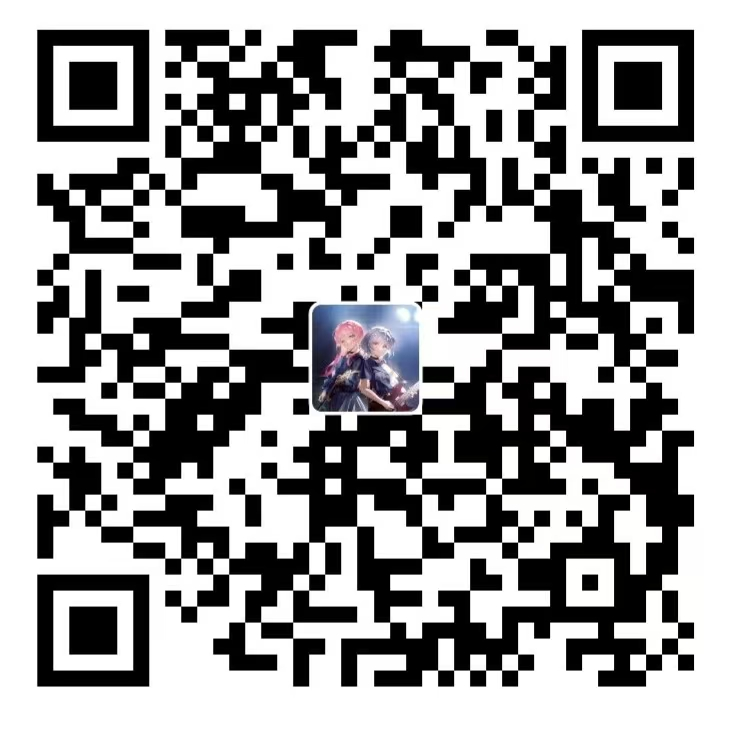
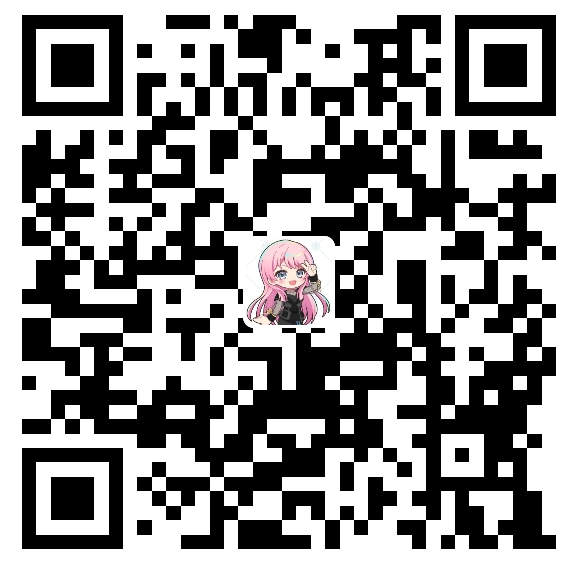
Site updated: 2026-01-20 06:44:30

diff --git a/tags/index.html b/tags/index.html
@@ -292,7 +292,7 @@
       </div>
       <header class="pattern-header ">
         <h1 class="entry-title">
-        </h1>
+        春物壁纸</h1>
       </header>
     </div>
   
@@ -323,7 +323,7 @@
           <div class="reward-main">
             <ul class="reward-row">
               <li class="alipay-code"><img src="/images/donate/AliPayQR.jpg"></li>
-              <li class="wechat-code"><img src="/images/donate/WeChanQR.jpg"></li>
+              <li class="wechat-code"><img src="undefined"></li>
             </ul>
           </div>
         </div>
@@ -663,7 +663,7 @@ $(document).ready(function() {
 </style>
 <meting-js
 
-    id="2974163305"
+    id="7536827188"
 
     server="netease"
 

diff --git a/comment/index.html b/comment/index.html
@@ -367,7 +367,7 @@ document.getElementById('fade-banner').onclick = fadeAnnouncement;
           <div class="reward-main">
             <ul class="reward-row">
               <li class="alipay-code"><img src="/images/donate/AliPayQR.jpg"></li>
-              <li class="wechat-code"><img src="/images/donate/WeChanQR.jpg"></li>
+              <li class="wechat-code"><img src="undefined"></li>
             </ul>
           </div>
         </div>
@@ -707,7 +707,7 @@ $(document).ready(function() {
 </style>
 <meting-js
 
-    id="2974163305"
+    id="7536827188"
 
     server="netease"
 

diff --git a/2022/02/02/Hexo-Theme-Sakura/index.html b/2022/02/02/Hexo-Theme-Sakura/index.html
@@ -369,7 +369,7 @@
             <div class="reward-main">
               <ul class="reward-row">
                 <li class="alipay-code"><img src="/images/donate/AliPayQR.jpg"></li>
-                <li class="wechat-code"><img src="/images/donate/WeChanQR.jpg"></li>
+                <li class="wechat-code"><img src="undefined"></li>
               </ul>
             </div>
           </div>
@@ -754,7 +754,7 @@ $(document).ready(function() {
 </style>
 <meting-js
 
-    id="2974163305"
+    id="7536827188"
 
     server="netease"
 

diff --git a/2025/03/31/McServer1/index.html b/2025/03/31/McServer1/index.html
@@ -439,7 +439,7 @@
             <div class="reward-main">
               <ul class="reward-row">
                 <li class="alipay-code"><img src="/images/donate/AliPayQR.jpg"></li>
-                <li class="wechat-code"><img src="/images/donate/WeChanQR.jpg"></li>
+                <li class="wechat-code"><img src="undefined"></li>
               </ul>
             </div>
           </div>
@@ -841,7 +841,7 @@ $(document).ready(function() {
 </style>
 <meting-js
 
-    id="2974163305"
+    id="7536827188"
 
     server="netease"
 

diff --git a/2025/03/31/mcserver2/index.html b/2025/03/31/mcserver2/index.html
@@ -393,7 +393,7 @@
             <div class="reward-main">
               <ul class="reward-row">
                 <li class="alipay-code"><img src="/images/donate/AliPayQR.jpg"></li>
-                <li class="wechat-code"><img src="/images/donate/WeChanQR.jpg"></li>
+                <li class="wechat-code"><img src="undefined"></li>
               </ul>
             </div>
           </div>
@@ -795,7 +795,7 @@ $(document).ready(function() {
 </style>
 <meting-js
 
-    id="2974163305"
+    id="7536827188"
 
     server="netease"
 

diff --git a/2025/04/01/mcserver3/index.html b/2025/04/01/mcserver3/index.html
@@ -375,7 +375,7 @@
             <div class="reward-main">
               <ul class="reward-row">
                 <li class="alipay-code"><img src="/images/donate/AliPayQR.jpg"></li>
-                <li class="wechat-code"><img src="/images/donate/WeChanQR.jpg"></li>
+                <li class="wechat-code"><img src="undefined"></li>
               </ul>
             </div>
           </div>
@@ -777,7 +777,7 @@ $(document).ready(function() {
 </style>
 <meting-js
 
-    id="2974163305"
+    id="7536827188"
 
     server="netease"
 

diff --git a/2025/04/02/mcserver4/index.html b/2025/04/02/mcserver4/index.html
@@ -345,7 +345,7 @@
             <div class="reward-main">
               <ul class="reward-row">
                 <li class="alipay-code"><img src="/images/donate/AliPayQR.jpg"></li>
-                <li class="wechat-code"><img src="/images/donate/WeChanQR.jpg"></li>
+                <li class="wechat-code"><img src="undefined"></li>
               </ul>
             </div>
           </div>
@@ -747,7 +747,7 @@ $(document).ready(function() {
 </style>
 <meting-js
 
-    id="2974163305"
+    id="7536827188"
 
     server="netease"
 

diff --git a/2025/04/09/game/index.html b/2025/04/09/game/index.html
@@ -352,7 +352,7 @@
             <div class="reward-main">
               <ul class="reward-row">
                 <li class="alipay-code"><img src="/images/donate/AliPayQR.jpg"></li>
-                <li class="wechat-code"><img src="/images/donate/WeChanQR.jpg"></li>
+                <li class="wechat-code"><img src="undefined"></li>
               </ul>
             </div>
           </div>
@@ -754,7 +754,7 @@ $(document).ready(function() {
 </style>
 <meting-js
 
-    id="2974163305"
+    id="7536827188"
 
     server="netease"
 

diff --git a/2025/04/16/ws/index.html b/2025/04/16/ws/index.html
@@ -379,7 +379,7 @@
             <div class="reward-main">
               <ul class="reward-row">
                 <li class="alipay-code"><img src="/images/donate/AliPayQR.jpg"></li>
-                <li class="wechat-code"><img src="/images/donate/WeChanQR.jpg"></li>
+                <li class="wechat-code"><img src="undefined"></li>
               </ul>
             </div>
           </div>
@@ -781,7 +781,7 @@ $(document).ready(function() {
 </style>
 <meting-js
 
-    id="2974163305"
+    id="7536827188"
 
     server="netease"
 

diff --git a/2025/09/25/mcrts/index.html b/2025/09/25/mcrts/index.html
@@ -351,7 +351,7 @@
             <div class="reward-main">
               <ul class="reward-row">
                 <li class="alipay-code"><img src="/images/donate/AliPayQR.jpg"></li>
-                <li class="wechat-code"><img src="/images/donate/WeChanQR.jpg"></li>
+                <li class="wechat-code"><img src="undefined"></li>
               </ul>
             </div>
           </div>
@@ -753,7 +753,7 @@ $(document).ready(function() {
 </style>
 <meting-js
 
-    id="2974163305"
+    id="7536827188"
 
     server="netease"
 

diff --git a/2025/11/13/lxnet/index.html b/2025/11/13/lxnet/index.html
@@ -434,7 +434,7 @@
             <div class="reward-main">
               <ul class="reward-row">
                 <li class="alipay-code"><img src="/images/donate/AliPayQR.jpg"></li>
-                <li class="wechat-code"><img src="/images/donate/WeChanQR.jpg"></li>
+                <li class="wechat-code"><img src="undefined"></li>
               </ul>
             </div>
           </div>
@@ -805,7 +805,7 @@ $(document).ready(function() {
 </style>
 <meting-js
 
-    id="2974163305"
+    id="7536827188"
 
     server="netease"
 

diff --git a/music/index.html b/music/index.html
@@ -324,7 +324,7 @@ mutex="true">
           <div class="reward-main">
             <ul class="reward-row">
               <li class="alipay-code"><img src="/images/donate/AliPayQR.jpg"></li>
-              <li class="wechat-code"><img src="/images/donate/WeChanQR.jpg"></li>
+              <li class="wechat-code"><img src="undefined"></li>
             </ul>
           </div>
         </div>
@@ -664,7 +664,7 @@ $(document).ready(function() {
 </style>
 <meting-js
 
-    id="2974163305"
+    id="7536827188"
 
     server="netease"
 
